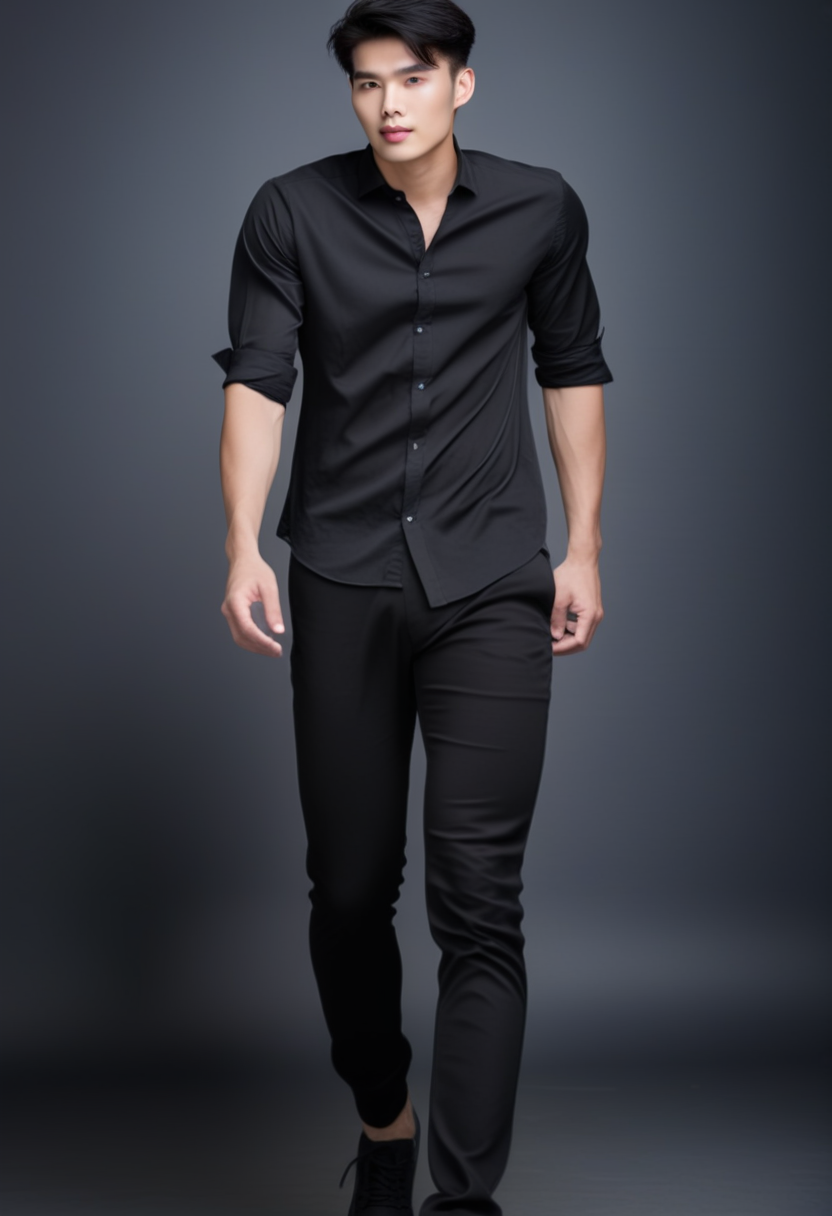
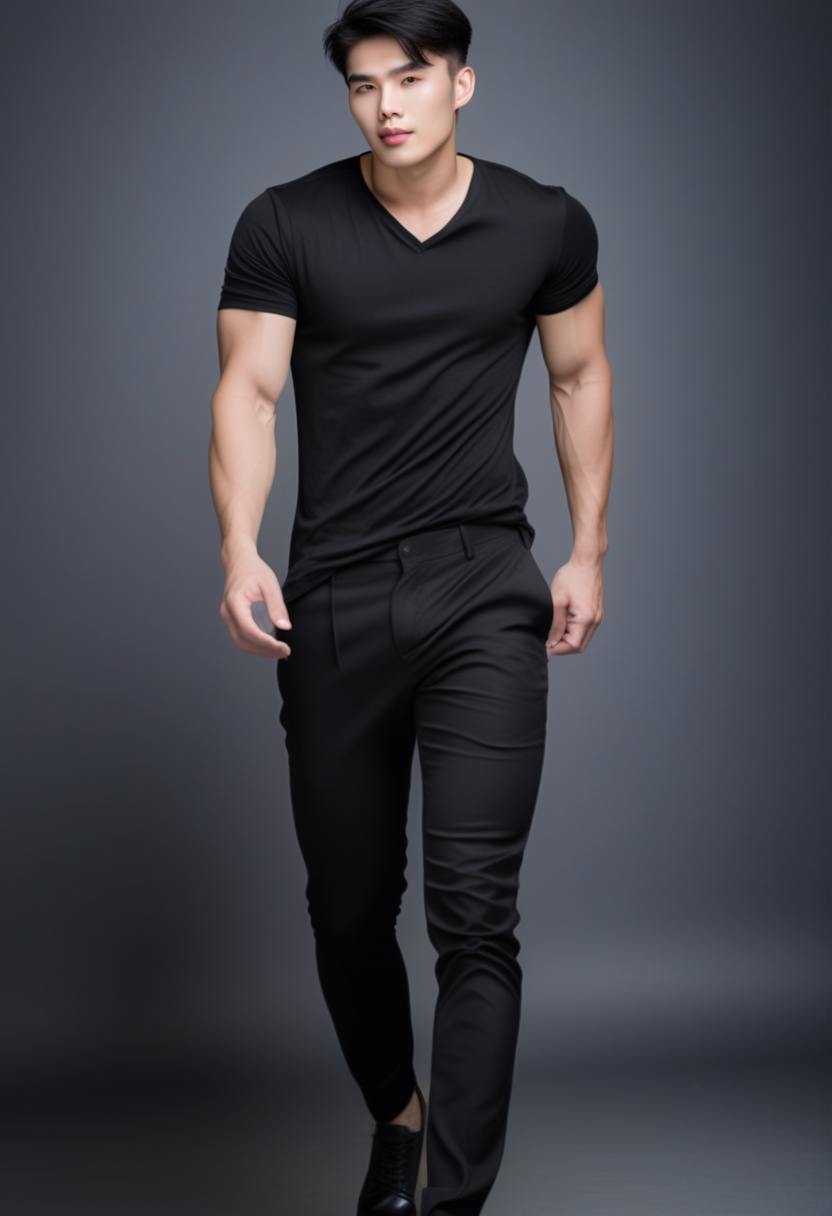
feat(phase28): Task 28.2 character sheets after the body-proportion fixes

diff --git a/docs/operations/phase28-characters/prompts.md b/docs/operations/phase28-characters/prompts.md
@@ -12,54 +12,54 @@ Lan, a young Vietnamese woman. 160 cm, 50 kg, a slender hourglass figure with a 
 
 **Detailed description:** Full-body front view, standing upright, feet together, arms relaxed at the sides, facing the camera with a calm neutral expression; the whole body from head to shoes is visible. Lan, a young Vietnamese woman. 160 cm, 50 kg, a slender hourglass figure with a narrow waist and gently rounded hips, upright posture. Very long straight black hair with side bangs, fair luminous skin, a soft delicate face with large dark eyes. All-white outfit.
 
-**Generation prompt:** `editorial photo, white studio background, soft light, crisp sharp focus, high resolution, beautiful young Vietnamese woman, very long straight black hair with side bangs, fair skin, plain white blouse, plain white trousers, white shoes, full body, standing straight facing camera, arms at sides, slim hourglass figure, narrow waist`
+**Generation prompt:** `editorial photo, white studio background, soft light, crisp sharp focus, high resolution, beautiful young Vietnamese woman, very long straight black hair with side bangs, fair skin, tight short-sleeve white blouse tucked in, slim straight white trousers, white shoes, full body, standing straight facing camera, arms at sides, full bust, slim waist, narrow hips, slim legs`
 
-**Negative prompt:** `blurry, low resolution, cartoon, anime, 3d render, ugly, deformed, extra fingers, extra person, glasses, jewelry, text, watermark, nude, bikini, swimsuit, cleavage, low cut, patterned clothes, black clothes, colorful clothes, short hair, tan skin, grey clothes`
+**Negative prompt:** `blurry, low resolution, cartoon, anime, 3d render, ugly, deformed, extra fingers, extra person, glasses, jewelry, text, watermark, nude, bikini, swimsuit, cleavage, low cut, patterned clothes, black clothes, colorful clothes, short hair, tan skin, grey clothes, wide hips, flared trousers, loose blouse`
 
 
-### full_back (seed 7, face reference strength 0.0)
+### full_back (seed 21, face reference strength 0.0)
 
 **Detailed description:** Full-body back view, standing upright with the back to the camera; the hair, the back of the garments and the shoes are visible. Lan, a young Vietnamese woman. 160 cm, 50 kg, a slender hourglass figure with a narrow waist and gently rounded hips, upright posture. Very long straight black hair with side bangs, fair luminous skin, a soft delicate face with large dark eyes. All-white outfit.
 
-**Generation prompt:** `editorial photo, white studio background, soft light, crisp sharp focus, high resolution, beautiful young Vietnamese woman, very long straight black hair with side bangs, fair skin, plain white blouse, plain white trousers, white shoes, full body from behind, back view, standing straight, slim hourglass figure, narrow waist`
+**Generation prompt:** `editorial photo, white studio background, soft light, crisp sharp focus, high resolution, beautiful young Vietnamese woman, very long straight black hair with side bangs, fair skin, tight short-sleeve white blouse tucked in, slim straight white trousers, white shoes, full body from behind, back view, standing straight, full bust, slim waist, narrow hips, slim legs`
 
-**Negative prompt:** `blurry, low resolution, cartoon, anime, 3d render, ugly, deformed, extra fingers, extra person, glasses, jewelry, text, watermark, nude, bikini, swimsuit, cleavage, low cut, patterned clothes, black clothes, colorful clothes, short hair, tan skin, grey clothes`
+**Negative prompt:** `blurry, low resolution, cartoon, anime, 3d render, ugly, deformed, extra fingers, extra person, glasses, jewelry, text, watermark, nude, bikini, swimsuit, cleavage, low cut, patterned clothes, black clothes, colorful clothes, short hair, tan skin, grey clothes, wide hips, flared trousers, loose blouse`
 
 
 ### face_front (seed 21, face reference strength 0.65)
 
 **Detailed description:** Close-up of the face and shoulders from the front, calm neutral expression, eyes looking straight at the camera, hair framing the face. Lan, a young Vietnamese woman. 160 cm, 50 kg, a slender hourglass figure with a narrow waist and gently rounded hips, upright posture. Very long straight black hair with side bangs, fair luminous skin, a soft delicate face with large dark eyes. All-white outfit.
 
-**Generation prompt:** `editorial photo, white studio background, soft light, crisp sharp focus, high resolution, beautiful young Vietnamese woman, very long straight black hair with side bangs, fair skin, plain white blouse, close-up face portrait, facing the camera, calm neutral expression`
+**Generation prompt:** `editorial photo, white studio background, soft light, crisp sharp focus, high resolution, beautiful young Vietnamese woman, very long straight black hair with side bangs, fair skin, tight short-sleeve white blouse tucked in, close-up face portrait, facing the camera, calm neutral expression`
 
-**Negative prompt:** `blurry, low resolution, cartoon, anime, 3d render, ugly, deformed, extra fingers, extra person, glasses, jewelry, text, watermark, nude, bikini, swimsuit, cleavage, low cut, patterned clothes, black clothes, colorful clothes, short hair, tan skin, grey clothes`
+**Negative prompt:** `blurry, low resolution, cartoon, anime, 3d render, ugly, deformed, extra fingers, extra person, glasses, jewelry, text, watermark, nude, bikini, swimsuit, cleavage, low cut, patterned clothes, black clothes, colorful clothes, short hair, tan skin, grey clothes, wide hips, flared trousers, loose blouse`
 
 
 ### face_profile (seed 21, face reference strength 0.2)
 
 **Detailed description:** Close-up of the head in a strict side profile facing right: forehead, nose bridge, lips, chin line and jaw, and the ear are visible. Lan, a young Vietnamese woman. 160 cm, 50 kg, a slender hourglass figure with a narrow waist and gently rounded hips, upright posture. Very long straight black hair with side bangs, fair luminous skin, a soft delicate face with large dark eyes. All-white outfit.
 
-**Generation prompt:** `editorial photo, white studio background, soft light, crisp sharp focus, high resolution, beautiful young Vietnamese woman, very long straight black hair with side bangs, fair skin, plain white blouse, close-up side profile portrait, face turned 90 degrees to the right`
+**Generation prompt:** `editorial photo, white studio background, soft light, crisp sharp focus, high resolution, beautiful young Vietnamese woman, very long straight black hair with side bangs, fair skin, tight short-sleeve white blouse tucked in, close-up side profile portrait, face turned 90 degrees to the right`
 
-**Negative prompt:** `blurry, low resolution, cartoon, anime, 3d render, ugly, deformed, extra fingers, extra person, glasses, jewelry, text, watermark, nude, bikini, swimsuit, cleavage, low cut, patterned clothes, black clothes, colorful clothes, short hair, tan skin, grey clothes`
+**Negative prompt:** `blurry, low resolution, cartoon, anime, 3d render, ugly, deformed, extra fingers, extra person, glasses, jewelry, text, watermark, nude, bikini, swimsuit, cleavage, low cut, patterned clothes, black clothes, colorful clothes, short hair, tan skin, grey clothes, wide hips, flared trousers, loose blouse`
 
 
 ### face_three_quarter (seed 21, face reference strength 0.2)
 
 **Detailed description:** Close-up of the face turned about 45 degrees, both eyes visible, the far cheek partly hidden by the nose line, a soft natural expression. Lan, a young Vietnamese woman. 160 cm, 50 kg, a slender hourglass figure with a narrow waist and gently rounded hips, upright posture. Very long straight black hair with side bangs, fair luminous skin, a soft delicate face with large dark eyes. All-white outfit.
 
-**Generation prompt:** `editorial photo, white studio background, soft light, crisp sharp focus, high resolution, beautiful young Vietnamese woman, very long straight black hair with side bangs, fair skin, plain white blouse, close-up three-quarter view portrait, face turned 45 degrees`
+**Generation prompt:** `editorial photo, white studio background, soft light, crisp sharp focus, high resolution, beautiful young Vietnamese woman, very long straight black hair with side bangs, fair skin, tight short-sleeve white blouse tucked in, close-up three-quarter view portrait, face turned 45 degrees`
 
-**Negative prompt:** `blurry, low resolution, cartoon, anime, 3d render, ugly, deformed, extra fingers, extra person, glasses, jewelry, text, watermark, nude, bikini, swimsuit, cleavage, low cut, patterned clothes, black clothes, colorful clothes, short hair, tan skin, grey clothes`
+**Negative prompt:** `blurry, low resolution, cartoon, anime, 3d render, ugly, deformed, extra fingers, extra person, glasses, jewelry, text, watermark, nude, bikini, swimsuit, cleavage, low cut, patterned clothes, black clothes, colorful clothes, short hair, tan skin, grey clothes, wide hips, flared trousers, loose blouse`
 
 
 ### face_smile (seed 21, face reference strength 0.5)
 
 **Detailed description:** Close-up of the face and shoulders from the front with a warm natural smile, teeth slightly visible, eyes engaged, hair framing the face; the talking-video expression. Lan, a young Vietnamese woman. 160 cm, 50 kg, a slender hourglass figure with a narrow waist and gently rounded hips, upright posture. Very long straight black hair with side bangs, fair luminous skin, a soft delicate face with large dark eyes. All-white outfit.
 
-**Generation prompt:** `editorial photo, white studio background, soft light, crisp sharp focus, high resolution, beautiful young Vietnamese woman, very long straight black hair with side bangs, fair skin, plain white blouse, close-up face portrait, facing the camera, big happy smile, teeth visible`
+**Generation prompt:** `editorial photo, white studio background, soft light, crisp sharp focus, high resolution, beautiful young Vietnamese woman, very long straight black hair with side bangs, fair skin, tight short-sleeve white blouse tucked in, close-up face portrait, facing the camera, big happy smile, teeth visible`
 
-**Negative prompt:** `blurry, low resolution, cartoon, anime, 3d render, ugly, deformed, extra fingers, extra person, glasses, jewelry, text, watermark, nude, bikini, swimsuit, cleavage, low cut, patterned clothes, black clothes, colorful clothes, short hair, tan skin, grey clothes`
+**Negative prompt:** `blurry, low resolution, cartoon, anime, 3d render, ugly, deformed, extra fingers, extra person, glasses, jewelry, text, watermark, nude, bikini, swimsuit, cleavage, low cut, patterned clothes, black clothes, colorful clothes, short hair, tan skin, grey clothes, wide hips, flared trousers, loose blouse`
 
 
 ## Minh (man)
@@ -71,51 +71,51 @@ Minh, a young Vietnamese man. 180 cm, 80 kg, a lean muscular athletic build: bro
 
 **Detailed description:** Full-body front view, standing upright, feet together, arms relaxed at the sides, facing the camera with a calm neutral expression; the whole body from head to shoes is visible. Minh, a young Vietnamese man. 180 cm, 80 kg, a lean muscular athletic build: broad shoulders, defined chest and arms, a narrow waist, a V-shaped torso. Fair clear skin, a refined slim face with straight eyebrows and almond eyes, tousled black hair with a long side-swept fringe. All-black outfit.
 
-**Generation prompt:** `editorial photo, white studio background, soft light, crisp sharp focus, high resolution, handsome young Vietnamese man, fair skin, tousled black hair, long fringe, black fitted shirt, black trousers, black shoes, full body, standing straight facing camera, arms at sides, lean muscular athletic build, broad shoulders, narrow waist`
+**Generation prompt:** `editorial photo, white studio background, soft light, crisp sharp focus, high resolution, handsome young Vietnamese man, fair skin, tousled black hair, long fringe, fitted short-sleeve black shirt, black trousers, black shoes, full body, standing straight facing camera, arms at sides, muscular broad chest, defined biceps, V-taper torso`
 
-**Negative prompt:** `blurry, low resolution, cartoon, anime, 3d render, ugly, deformed, extra fingers, extra person, glasses, jewelry, text, watermark, nude, bikini, swimsuit, cleavage, low cut, patterned clothes, white clothes, colorful clothes, shirtless, beard, grey clothes, short buzz cut`
+**Negative prompt:** `blurry, low resolution, cartoon, anime, 3d render, ugly, deformed, extra fingers, extra person, glasses, jewelry, text, watermark, nude, bikini, swimsuit, cleavage, low cut, patterned clothes, white clothes, colorful clothes, shirtless, bare back, crop top, torn clothes, beard, grey clothes, rolled sleeves, hunched shoulders`
 
 
-### full_back (seed 7, face reference strength 0.0)
+### full_back (seed 21, face reference strength 0.0)
 
 **Detailed description:** Full-body back view, standing upright with the back to the camera; the hair, the back of the garments and the shoes are visible. Minh, a young Vietnamese man. 180 cm, 80 kg, a lean muscular athletic build: broad shoulders, defined chest and arms, a narrow waist, a V-shaped torso. Fair clear skin, a refined slim face with straight eyebrows and almond eyes, tousled black hair with a long side-swept fringe. All-black outfit.
 
-**Generation prompt:** `editorial photo, white studio background, soft light, crisp sharp focus, high resolution, handsome young Vietnamese man, fair skin, tousled black hair, long fringe, black fitted shirt, black trousers, black shoes, full body from behind, back view, standing straight, lean muscular athletic build, broad shoulders, narrow waist`
+**Generation prompt:** `editorial photo, white studio background, soft light, crisp sharp focus, high resolution, handsome young Vietnamese man, fair skin, tousled black hair, long fringe, fitted short-sleeve black shirt, black trousers, black shoes, full body from behind, back view, standing straight, muscular broad chest, defined biceps, V-taper torso`
 
-**Negative prompt:** `blurry, low resolution, cartoon, anime, 3d render, ugly, deformed, extra fingers, extra person, glasses, jewelry, text, watermark, nude, bikini, swimsuit, cleavage, low cut, patterned clothes, white clothes, colorful clothes, shirtless, beard, grey clothes, short buzz cut`
+**Negative prompt:** `blurry, low resolution, cartoon, anime, 3d render, ugly, deformed, extra fingers, extra person, glasses, jewelry, text, watermark, nude, bikini, swimsuit, cleavage, low cut, patterned clothes, white clothes, colorful clothes, shirtless, bare back, crop top, torn clothes, beard, grey clothes, rolled sleeves, hunched shoulders`
 
 
 ### face_front (seed 21, face reference strength 0.65)
 
 **Detailed description:** Close-up of the face and shoulders from the front, calm neutral expression, eyes looking straight at the camera, hair framing the face. Minh, a young Vietnamese man. 180 cm, 80 kg, a lean muscular athletic build: broad shoulders, defined chest and arms, a narrow waist, a V-shaped torso. Fair clear skin, a refined slim face with straight eyebrows and almond eyes, tousled black hair with a long side-swept fringe. All-black outfit.
 
-**Generation prompt:** `editorial photo, white studio background, soft light, crisp sharp focus, high resolution, handsome young Vietnamese man, fair skin, tousled black hair, long fringe, black fitted shirt, close-up face portrait, facing the camera, calm neutral expression`
+**Generation prompt:** `editorial photo, white studio background, soft light, crisp sharp focus, high resolution, handsome young Vietnamese man, fair skin, tousled black hair, long fringe, fitted short-sleeve black shirt, close-up face portrait, facing the camera, calm neutral expression`
 
-**Negative prompt:** `blurry, low resolution, cartoon, anime, 3d render, ugly, deformed, extra fingers, extra person, glasses, jewelry, text, watermark, nude, bikini, swimsuit, cleavage, low cut, patterned clothes, white clothes, colorful clothes, shirtless, beard, grey clothes, short buzz cut`
+**Negative prompt:** `blurry, low resolution, cartoon, anime, 3d render, ugly, deformed, extra fingers, extra person, glasses, jewelry, text, watermark, nude, bikini, swimsuit, cleavage, low cut, patterned clothes, white clothes, colorful clothes, shirtless, bare back, crop top, torn clothes, beard, grey clothes, rolled sleeves, hunched shoulders`
 
 
 ### face_profile (seed 21, face reference strength 0.2)
 
 **Detailed description:** Close-up of the head in a strict side profile facing right: forehead, nose bridge, lips, chin line and jaw, and the ear are visible. Minh, a young Vietnamese man. 180 cm, 80 kg, a lean muscular athletic build: broad shoulders, defined chest and arms, a narrow waist, a V-shaped torso. Fair clear skin, a refined slim face with straight eyebrows and almond eyes, tousled black hair with a long side-swept fringe. All-black outfit.
 
-**Generation prompt:** `editorial photo, white studio background, soft light, crisp sharp focus, high resolution, handsome young Vietnamese man, fair skin, tousled black hair, long fringe, black fitted shirt, close-up side profile portrait, face turned 90 degrees to the right`
+**Generation prompt:** `editorial photo, white studio background, soft light, crisp sharp focus, high resolution, handsome young Vietnamese man, fair skin, tousled black hair, long fringe, fitted short-sleeve black shirt, close-up side profile portrait, face turned 90 degrees to the right`
 
-**Negative prompt:** `blurry, low resolution, cartoon, anime, 3d render, ugly, deformed, extra fingers, extra person, glasses, jewelry, text, watermark, nude, bikini, swimsuit, cleavage, low cut, patterned clothes, white clothes, colorful clothes, shirtless, beard, grey clothes, short buzz cut`
+**Negative prompt:** `blurry, low resolution, cartoon, anime, 3d render, ugly, deformed, extra fingers, extra person, glasses, jewelry, text, watermark, nude, bikini, swimsuit, cleavage, low cut, patterned clothes, white clothes, colorful clothes, shirtless, bare back, crop top, torn clothes, beard, grey clothes, rolled sleeves, hunched shoulders`
 
 
 ### face_three_quarter (seed 7, face reference strength 0.2)
 
 **Detailed description:** Close-up of the face turned about 45 degrees, both eyes visible, the far cheek partly hidden by the nose line, a soft natural expression. Minh, a young Vietnamese man. 180 cm, 80 kg, a lean muscular athletic build: broad shoulders, defined chest and arms, a narrow waist, a V-shaped torso. Fair clear skin, a refined slim face with straight eyebrows and almond eyes, tousled black hair with a long side-swept fringe. All-black outfit.
 
-**Generation prompt:** `editorial photo, white studio background, soft light, crisp sharp focus, high resolution, handsome young Vietnamese man, fair skin, tousled black hair, long fringe, black fitted shirt, close-up three-quarter view portrait, face turned 45 degrees`
+**Generation prompt:** `editorial photo, white studio background, soft light, crisp sharp focus, high resolution, handsome young Vietnamese man, fair skin, tousled black hair, long fringe, fitted short-sleeve black shirt, close-up three-quarter view portrait, face turned 45 degrees`
 
-**Negative prompt:** `blurry, low resolution, cartoon, anime, 3d render, ugly, deformed, extra fingers, extra person, glasses, jewelry, text, watermark, nude, bikini, swimsuit, cleavage, low cut, patterned clothes, white clothes, colorful clothes, shirtless, beard, grey clothes, short buzz cut`
+**Negative prompt:** `blurry, low resolution, cartoon, anime, 3d render, ugly, deformed, extra fingers, extra person, glasses, jewelry, text, watermark, nude, bikini, swimsuit, cleavage, low cut, patterned clothes, white clothes, colorful clothes, shirtless, bare back, crop top, torn clothes, beard, grey clothes, rolled sleeves, hunched shoulders`
 
 
 ### face_smile (seed 21, face reference strength 0.5)
 
 **Detailed description:** Close-up of the face and shoulders from the front with a warm natural smile, teeth slightly visible, eyes engaged, hair framing the face; the talking-video expression. Minh, a young Vietnamese man. 180 cm, 80 kg, a lean muscular athletic build: broad shoulders, defined chest and arms, a narrow waist, a V-shaped torso. Fair clear skin, a refined slim face with straight eyebrows and almond eyes, tousled black hair with a long side-swept fringe. All-black outfit.
 
-**Generation prompt:** `editorial photo, white studio background, soft light, crisp sharp focus, high resolution, handsome young Vietnamese man, fair skin, tousled black hair, long fringe, black fitted shirt, close-up face portrait, facing the camera, big happy smile, teeth visible`
+**Generation prompt:** `editorial photo, white studio background, soft light, crisp sharp focus, high resolution, handsome young Vietnamese man, fair skin, tousled black hair, long fringe, fitted short-sleeve black shirt, close-up face portrait, facing the camera, big happy smile, teeth visible`
 
-**Negative prompt:** `blurry, low resolution, cartoon, anime, 3d render, ugly, deformed, extra fingers, extra person, glasses, jewelry, text, watermark, nude, bikini, swimsuit, cleavage, low cut, patterned clothes, white clothes, colorful clothes, shirtless, beard, grey clothes, short buzz cut`
+**Negative prompt:** `blurry, low resolution, cartoon, anime, 3d render, ugly, deformed, extra fingers, extra person, glasses, jewelry, text, watermark, nude, bikini, swimsuit, cleavage, low cut, patterned clothes, white clothes, colorful clothes, shirtless, bare back, crop top, torn clothes, beard, grey clothes, rolled sleeves, hunched shoulders`

diff --git a/.viepilot/phases/28-semi-realistic-style/tasks/task-28.2.md b/.viepilot/phases/28-semi-realistic-style/tasks/task-28.2.md
@@ -107,3 +107,12 @@ off for both. Changes: "tight short-sleeve white blouse tucked in"; the figure i
 The woman is good (fitted short-sleeve blouse, narrow hips, shoes in frame). The man's head top was cut
 off and one front view was a torn crop top: his full-body framing is now nose 0.085 / unit 0.105, and
 "crop top, torn clothes" are in his negative. Only his two full-body panels are redone.
+
+### Result after the fixes (2026-10-06), awaiting owner approval
+
+Sheets recomposed (`docs/operations/phase28-characters/*_sheet_2000.png`, `prompts.md` regenerated).
+- **Man:** shoulders natural, biceps and chest clearly muscular, head and shoes in the frame, front and
+  back backgrounds match.
+- **Woman:** fitted short-sleeve blouse tucked in, narrow hips, slim straight trousers, shoes in frame.
+- **Not fully achieved, stated to the owner:** the bust reads only moderately full (the model still
+  draws a modest bust under a fitted blouse); her head top is a little tight in the back view.
